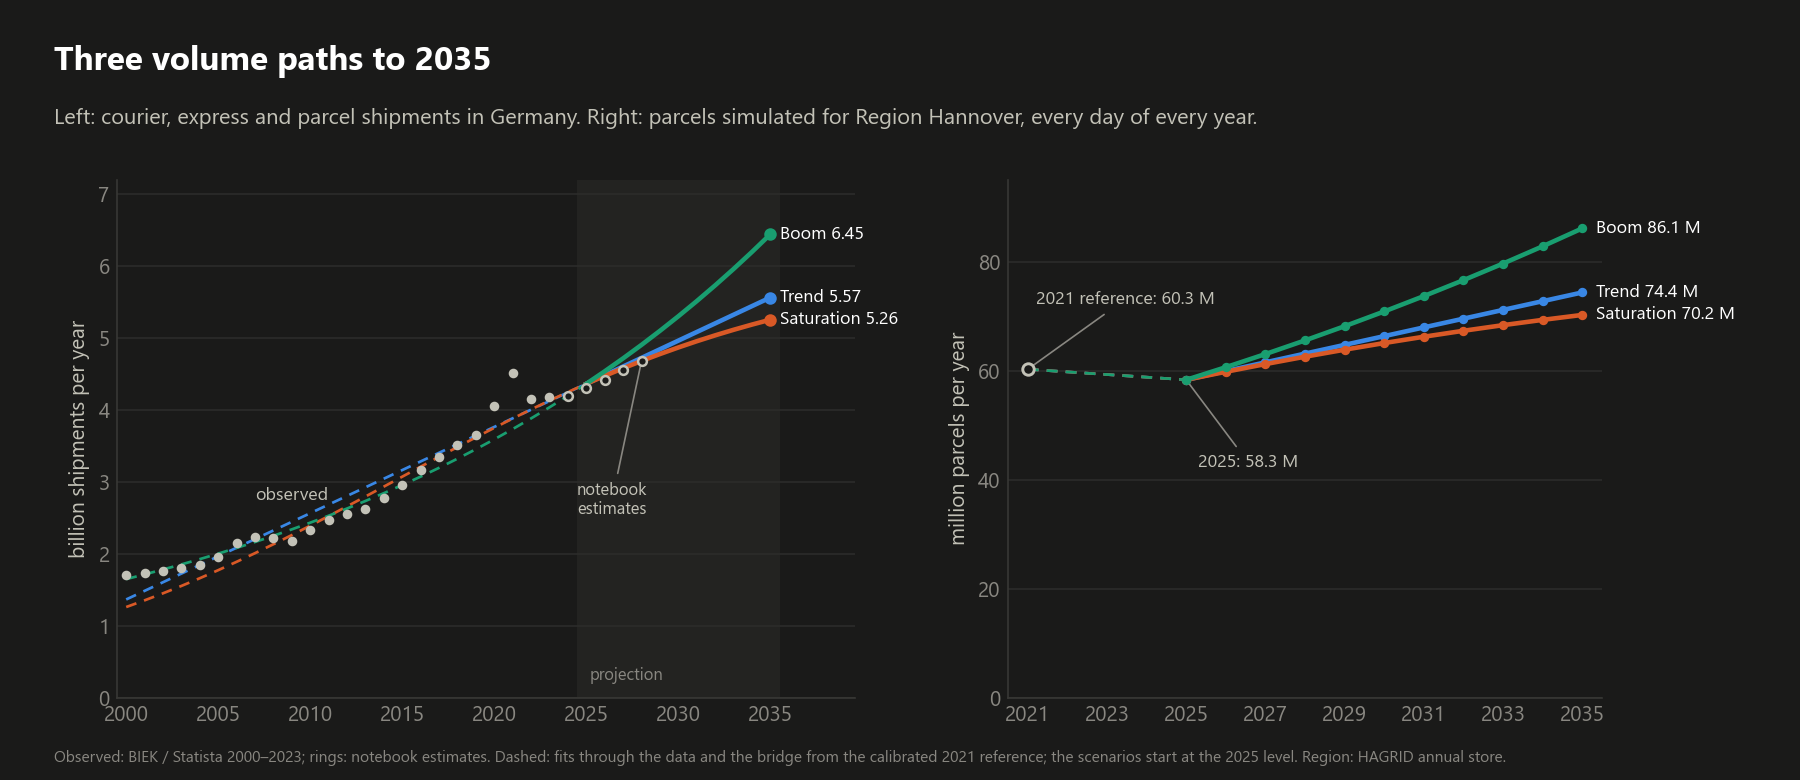
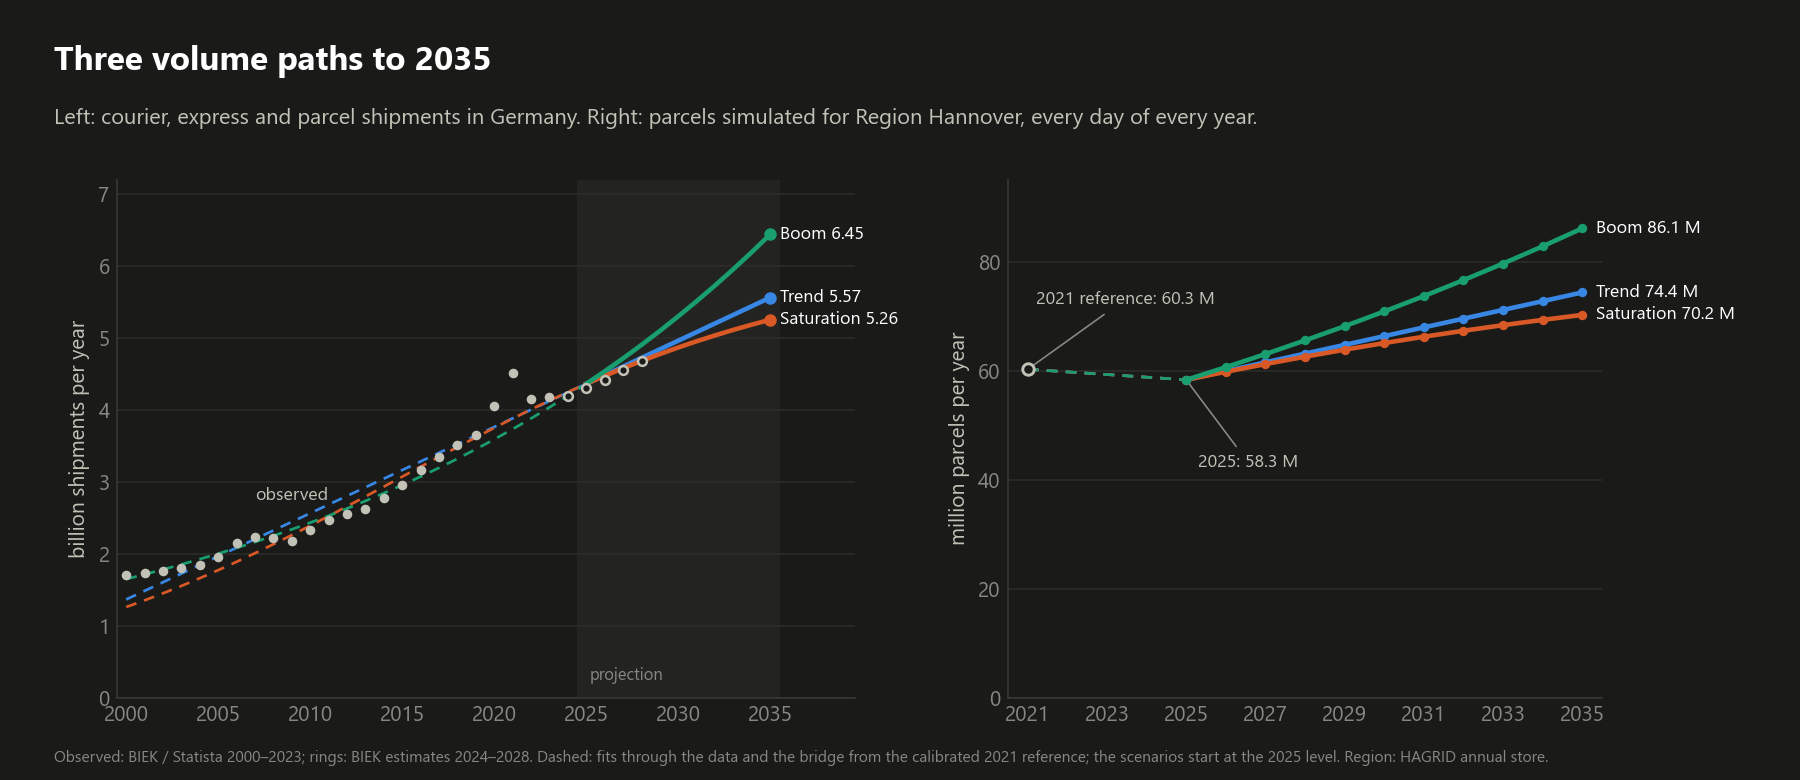
docs(figures): label the 2024-2028 rings as BIEK estimates
The hollow points of the national series are BIEK estimates, not estimates of
the notebook. The volume figure drops its "notebook estimates" annotation and
names them BIEK estimates in its source line; the decade dashboard says BIEK
estimate in legend, caption, tooltip, table and method text. Figures and
dashboard screenshots regenerated.

Changed region(s): [[0.1867, 0.9538, 0.84, 0.9846], [0.3111, 0.6154, 0.3733, 0.6769]]

diff --git a/hagrid/demand/model/src/hagrid_demand/baseline/templates/decade_dashboard.html b/hagrid/demand/model/src/hagrid_demand/baseline/templates/decade_dashboard.html
@@ -186,7 +186,7 @@ footer{margin-top:44px;padding-top:14px;border-top:1px solid var(--line);color:v
         <div class="fig-head"><div><h3>Germany, billion parcels per year</h3><p class="sub">Observed volumes and the three scenario paths</p></div></div>
         <div class="legend" id="lg-national"></div>
         <div class="chart" id="ch-national"></div>
-        <p class="cap">Dots: observed national volumes (Statista and BIEK, notebook 02); rings: the notebook estimates 2024–2028, which the saturation and boom fits include. Dashed: each scenario's fitted curve over the observed years up to its first simulated year, where the path starts; solid: the scenario paths, labelled with the value in the last year and the compound annual growth rate. The selected scenario is blue; the band marks the selected year. Click a year to select it.</p>
+        <p class="cap">Dots: observed national volumes (Statista and BIEK, notebook 02); rings: the BIEK estimates 2024–2028, which the saturation and boom fits include. Dashed: each scenario's fitted curve over the observed years up to its first simulated year, where the path starts; solid: the scenario paths, labelled with the value in the last year and the compound annual growth rate. The selected scenario is blue; the band marks the selected year. Click a year to select it.</p>
       </figure>
       <figure class="panel s5">
         <div class="fig-head"><div><h3>Region Hannover, simulated parcels</h3><p class="sub">Sum of all simulated days per year</p></div></div>
@@ -616,10 +616,10 @@ function renderGrowth() {
   const nat = D.national, sel = state.scenario, order = NAMES.filter(n => n !== sel).concat([sel]);
   const color = n => n === sel ? 'var(--all)' : 'var(--other-line)';
   const est = nat.estimates || {years: [], values: []};
-  legend($('lg-national'), [{kind: 'dot', color: 'var(--obs)', label: 'observed'}].concat(est.years.length ? [{kind: 'ring', color: 'var(--obs)', label: 'notebook estimate'}] : [],
+  legend($('lg-national'), [{kind: 'dot', color: 'var(--obs)', label: 'observed'}].concat(est.years.length ? [{kind: 'ring', color: 'var(--obs)', label: 'BIEK estimate'}] : [],
     [{kind: 'line', color: 'var(--all)', label: label(sel)}, {kind: 'line', dash: true, color: 'var(--all)', label: 'fitted through the data'}],
     NAMES.length > 1 ? [{kind: 'line', color: 'var(--other-line)', label: 'other scenarios'}] : []));
-  // national fan: observed anchors, notebook estimates, every scenario's fit over the observed years (dashed) and its
+  // national fan: observed anchors, BIEK estimates, every scenario's fit over the observed years (dashed) and its
   // path from the first simulated year on (solid)
   const box = $('ch-national'), narrow = box.clientWidth < 540, x0 = Math.min(nat.observed.years[0] || Y0, Y0);
   const paths = {}, fits = {}; NAMES.forEach(n => { const S = nat.scenarios[n]; paths[n] = S ? S.years.map((yr, i) => [yr, S.values[i]]).filter(([yr]) => yr >= Y0 && yr <= YN) : [];
@@ -638,7 +638,7 @@ function renderGrowth() {
     return {y: F.y(last[1]), text: narrow ? dec(last[1], 2) : label(n) + ' · ' + dec(last[1], 2) + ' · ' + signed(g && g.cagr) + '/yr', priority: n === sel ? 2 : 1, strong: n === sel}; }));
   const span = []; for (let yr = x0; yr <= YN; yr++) span.push(yr);
   crosshair(F, span, (t, yr) => { t.append(...tH(String(yr), 'billion parcels in Germany')); const o = nat.observed.years.indexOf(yr); if (o >= 0) t.appendChild(tR(dec(nat.observed.values[o], 3), 'observed', 'var(--obs)'));
-    const e = est.years.indexOf(yr); if (e >= 0) t.appendChild(tR(dec(est.values[e], 3), 'notebook estimate', 'var(--obs)'));
+    const e = est.years.indexOf(yr); if (e >= 0) t.appendChild(tR(dec(est.values[e], 3), 'BIEK estimate', 'var(--obs)'));
     const f = fits[sel].find(q => q[0] === yr); if (f && yr < Y0) t.appendChild(tR(dec(f[1], 3), label(sel) + ' fit', color(sel)));
     NAMES.forEach(n => { const p = paths[n].find(q => q[0] === yr); if (p) t.appendChild(tR(dec(p[1], 3), label(n), color(n))); }); });
   // regional fan: the calibrated reference year, bridged (dashed) to every scenario's simulated parcels
@@ -663,7 +663,7 @@ function renderGrowth() {
   $('f-growth').replaceChildren('Nationally the scenarios reach ', h('b', {text: gs.map(item => dec(item.national.to, 2) + ' billion (' + item.label + ')').join(', ').replace(/, ([^,]*)$/, ' and $1')}), ' parcels in ' + YN + ', ' +
     gs.map(item => signed(item.national.cagr) + ' a year').join(' / ') + ' from ' + (gs[0] ? gs[0].national.from_year : Y0) + '. In the region the ' + label(sel) + ' scenario grows from ' + short(reg[sel][0]) + ' to ' + short(reg[sel][reg[sel].length - 1]) + ' parcels.');
   const allYears = Array.from(new Set(nat.observed.years.filter(yr => yr >= 2019).concat(est.years.filter(yr => yr <= YN), YEARS))).sort((a, b) => a - b);
-  tableView($('tv-growth'), ['Year', 'Observed (bn)', 'Notebook estimate (bn)'].concat(NAMES.map(n => label(n) + ' national (bn)'), NAMES.map(n => label(n) + ' region')),
+  tableView($('tv-growth'), ['Year', 'Observed (bn)', 'BIEK estimate (bn)'].concat(NAMES.map(n => label(n) + ' national (bn)'), NAMES.map(n => label(n) + ' region')),
     allYears.map(yr => ({yr, cells: [String(yr), dec(nat.observed.values[nat.observed.years.indexOf(yr)], 3), est.years.includes(yr) ? dec(est.values[est.years.indexOf(yr)], 3) : '–'].concat(NAMES.map(n => { const p = paths[n].find(q => q[0] === yr); return p ? dec(p[1], 3) : '–'; }), NAMES.map(n => int(reg[n][YEARS.indexOf(yr)])))})),
     {on: r => r.yr === state.year});
 }
@@ -904,7 +904,7 @@ function renderCalendar() {
 /* ---------- #method ---------- */
 function renderMethod() {
   const a = M.assumptions || {}, o = a.out_of_home, g = a.network_growth, t = a.temporal || {}, items = [];
-  const curve = {linear: 'linear', logistic: 'logistic', exponential: 'exponential'}, policy = {observed_only: 'the observed volumes 2000–2023', legacy_assumptions: 'the observed volumes plus the notebook estimates 2024–2028'};
+  const curve = {linear: 'linear', logistic: 'logistic', exponential: 'exponential'}, policy = {observed_only: 'the observed volumes 2000–2023', legacy_assumptions: 'the observed volumes plus the BIEK estimates 2024–2028'};
   items.push(['Scenarios:', SCEN.map(item => { const d = item.definition, nat = item.national;
     return item.label + ' – ' + (d ? (curve[d.curve] || d.curve) + ' fit of ' + (policy[d.policy] || d.policy) + (d.chained ? ', chained to the level of ' + d.chain_year : '') : 'no scenario definition in the run') +
       (nat ? ': ' + dec(nat.from, 2) + ' billion parcels in ' + nat.from_year + ', ' + dec(nat.to, 2) + ' in ' + nat.to_year + ' (' + signed(nat.cagr) + ' a year)' : '') + (item.missing_years.length ? '; ' + years(item.missing_years) + ' not simulated' : ''); }).join('; ') + '.']);

diff --git a/docs/images/demand/make_figures.py b/docs/images/demand/make_figures.py
@@ -253,10 +253,6 @@ def volume_scenarios(payload: dict, theme: dict, out: Path, mode: str) -> Path:
     left.plot(estimates["years"], estimates["values"], "o", markerfacecolor=theme["surface"], markeredgecolor=theme["ink2"],
               markersize=4.2, markeredgewidth=1.2, linestyle="none", zorder=6)
     left.text(2009, 2.75, "observed", color=theme["ink2"], fontsize=8.5, ha="center")
-    if estimates["years"]:
-        left.annotate("notebook\nestimates", (estimates["years"][-1], estimates["values"][-1]), xytext=(2026.4, 2.55),
-                      color=theme["ink2"], fontsize=8, ha="center",
-                      arrowprops={"arrowstyle": "-", "color": theme["muted"], "linewidth": .8})
     left.text(years[0] + .2, .25, "projection", color=theme["muted"], fontsize=8)
     reference = next((item.get("reference") for item in payload["meta"]["scenarios"] if item.get("reference")), None)
     for index, (key, label) in enumerate(SCENARIOS):
@@ -301,7 +297,7 @@ def volume_scenarios(payload: dict, theme: dict, out: Path, mode: str) -> Path:
         right.annotate(f"{reference['year']} reference: {value:.1f} M", (reference["year"], value),
                        xytext=(reference["year"] + .2, value + 12), color=theme["ink2"], fontsize=8.5,
                        arrowprops={"arrowstyle": "-", "color": theme["muted"], "linewidth": .8})
-    source(fig, "Observed: BIEK / Statista 2000–2023; rings: notebook estimates. Dashed: fits through the data and the bridge "
+    source(fig, "Observed: BIEK / Statista 2000–2023; rings: BIEK estimates 2024–2028. Dashed: fits through the data and the bridge "
            "from the calibrated 2021 reference; the scenarios start at the 2025 level. Region: HAGRID annual store.", theme)
     return save(fig, out, "volume-scenarios", mode)
 
